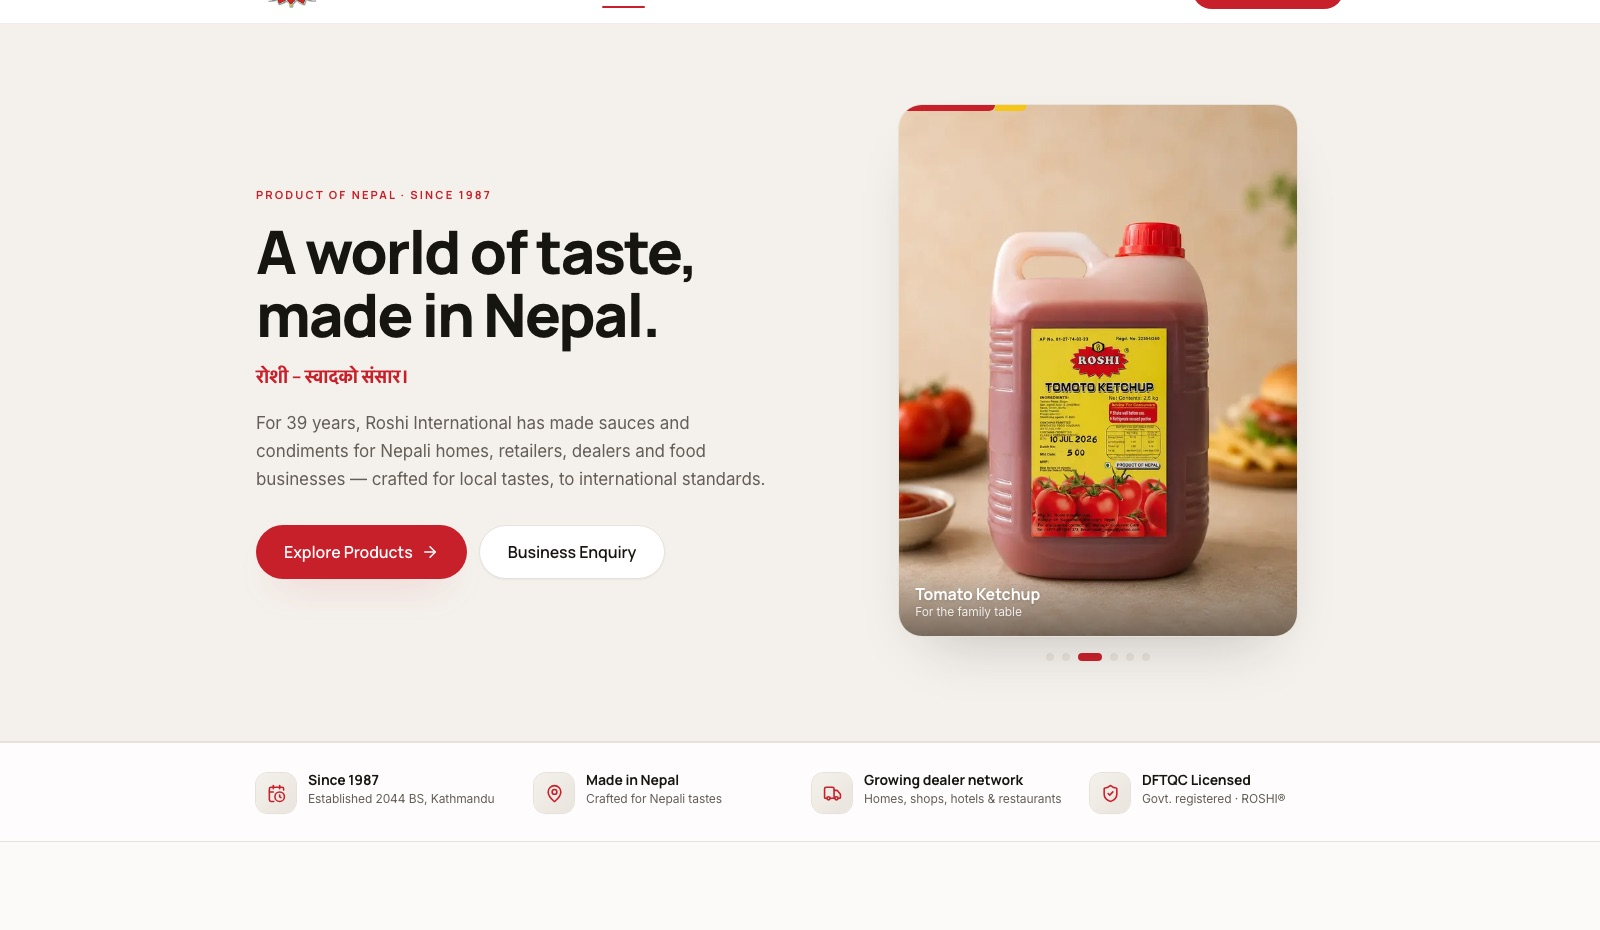
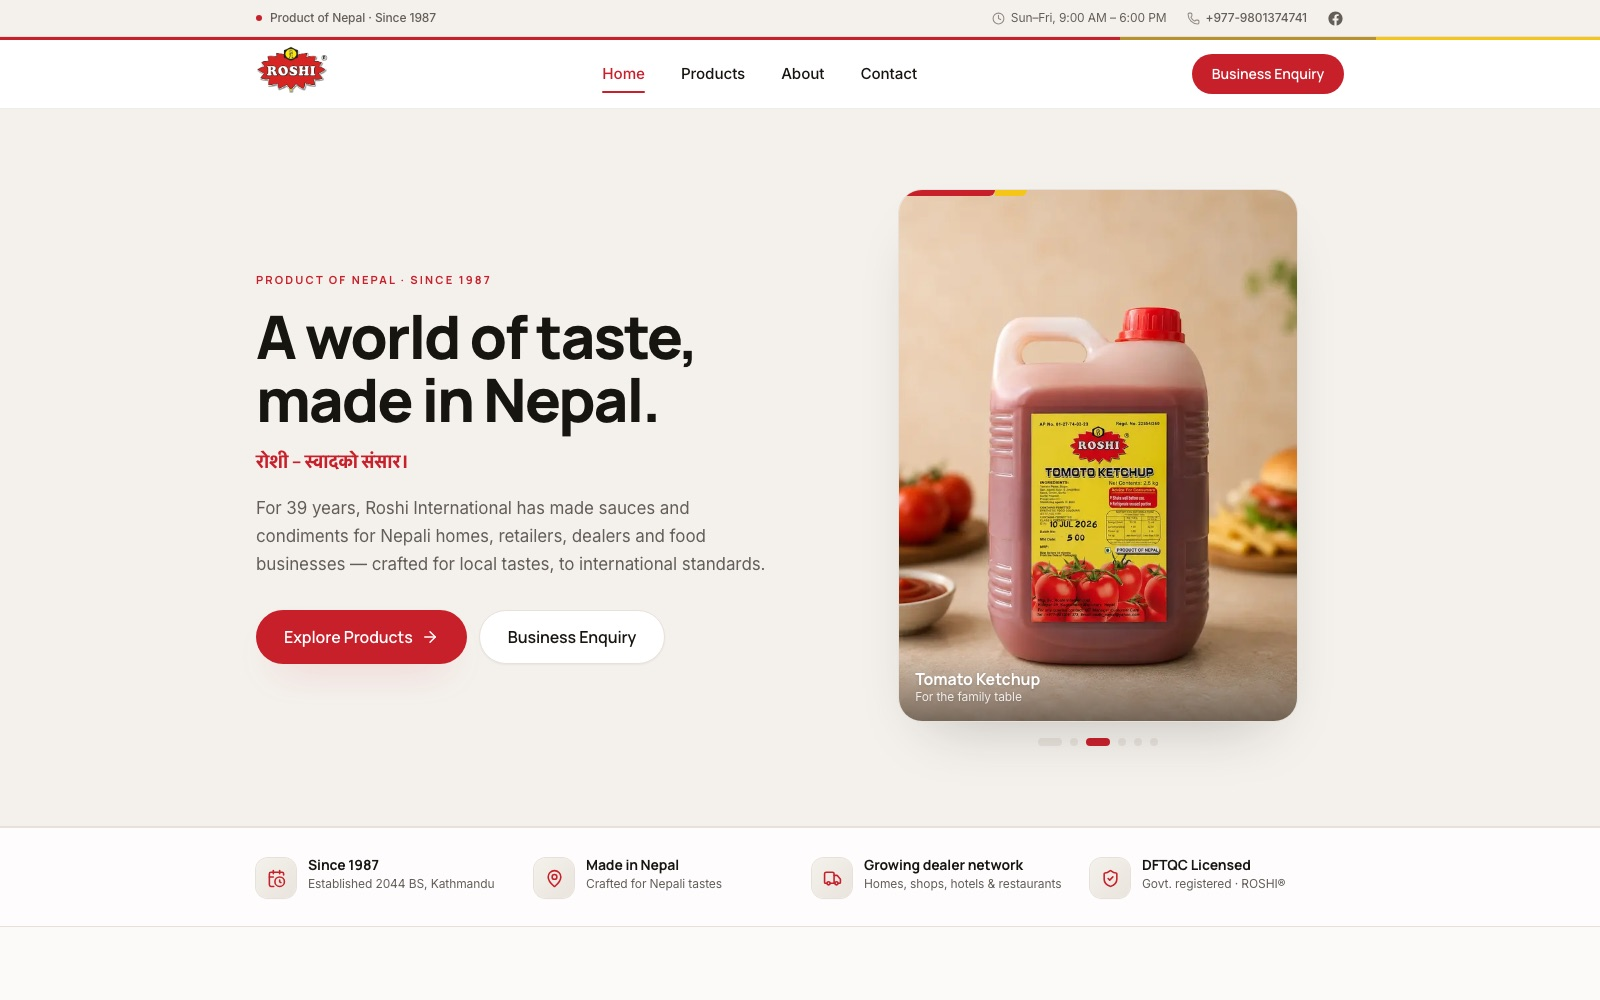
Update portfolio design

diff --git a/src/content/projects.ts b/src/content/projects.ts
@@ -175,8 +175,123 @@ export const projects: Project[] = [
 
   /* ---------------------------------------------------------------- 02 */
   {
-    slug: "avernek-os",
+    slug: "roshi-international",
     index: "02",
+    title: "Thirty-nine years of sauce, put online",
+    premise:
+      "A manufacturer's first real website — product range, trade enquiries and the credentials a dealer checks before ordering.",
+    discipline: "Full-stack · Delivery",
+    year: "2026",
+    // Same shape as every Avernek website engagement: the client arrives for
+    // automation and marketing, the site is added, and the site is mine.
+    role: ["Sales", "Requirements", "Design", "AI-assisted build"],
+    stack: ["Next.js", "Claude Code", "Figma"],
+    status: "Delivered",
+    featured: true,
+    cover: {
+      src: "/projects/roshi-international.jpg",
+      alt: "The Roshi International homepage — the bilingual headline beside a photograph of a 2.5kg tomato ketchup container, over a strip of trade credentials",
+      // 16:10, the same as every other site plate. Frames are shown at their
+      // own ratio rather than cropped to a box, so two screenshots of
+      // different proportions in one row end at different heights and the
+      // grid looks misaligned. The ratio is settled at capture time instead.
+      width: 1600,
+      height: 1000,
+      kind: "site",
+      label: "roshiinternational.com",
+    },
+    external: { label: "Preview build", href: "https://demo.avernek.com/" },
+    summary:
+      "Roshi International has manufactured sauces and condiments in Kathmandu since 1987 — soya sauce, chilli, ketchup, mayonnaise, vinegar — sold through homes, retailers, dealers and food service. The site is finished and running on a preview domain; roshiinternational.com is bought and waiting on the hosting cutover.",
+    chapters: [
+      {
+        kind: "prose",
+        heading: "Two audiences, one page",
+        body: [
+          "A person buying a 320gm bottle for their kitchen and a dealer pricing a 5kg carton want completely different things, and a manufacturer's site usually gets built for whichever one the owner thought of first.",
+          "So the product range leads with the sizes — 370gm through 5kg on the same card — because the size list is the fastest way for a trade buyer to work out whether this supplier is relevant to them, and it costs a home cook nothing to read past it.",
+        ],
+      },
+      {
+        kind: "prose",
+        heading: "The credentials are the product",
+        body: [
+          "Thirty-nine years, established 2044 BS, DFTQC licensed, government registered, a growing dealer network. For a food manufacturer selling into shops and restaurants, those four facts do more work than any amount of copy about quality.",
+          "They sit in a strip directly under the fold rather than on an About page, because a dealer deciding whether to make contact checks them first and leaves if they cannot find them.",
+        ],
+      },
+    ],
+  },
+
+  /* ---------------------------------------------------------------- 03 */
+  {
+    slug: "nepal-comfort",
+    index: "03",
+    title: "A 1999 tour company, rebuilt",
+    premise: "A full-stack rebuild for a Kathmandu vehicle rental and tour operator — client, API, database and deployment.",
+    discipline: "Full-stack · Delivery",
+    year: "2026",
+    // An Avernek engagement, not freelance. The client came for automation
+    // and marketing and asked for the site as well; the site is the part I
+    // take myself, end to end.
+    role: ["Sales", "Requirements", "Design", "AI-assisted build"],
+    stack: ["Figma", "Claude Code", "React", "Node"],
+    status: "Delivered",
+    featured: true,
+    cover: {
+      src: "/projects/nepal-comfort.jpg",
+      alt: "The Nepal Comfort Tour Service homepage — a full-bleed photograph of the company's own fleet behind the headline, with the since-1999 and NTVA-registered credentials called out",
+      // The file is 1600x1000. This said 1100, so the browser reserved a box
+      // 100px taller than the image that arrived — the plate settled short
+      // once it loaded, and sat lower than its neighbour in the row.
+      width: 1600,
+      height: 1000,
+      kind: "site",
+      // The client is Nepal Comfort Tour Service (P) Ltd.; the domain is
+      // nepaltourservice.com. The chrome label said nepalcomfort.com, which
+      // is not a site that exists.
+      label: "nepaltourservice.com",
+    },
+    summary:
+      "Nepal Comfort Tour Service has run vehicle rental and tour transportation out of Kathmandu since 1999. The rebuild is a complete MERN application — not a template with their logo on it. It came to Avernek as an automation and marketing engagement; the website was added to it, and the build is mine.",
+    // The rebuild is finished but not yet cut over — nepaltourservice.com
+    // still serves the old site until hosting moves. Deliberately not linked
+    // as `external`, because a link labelled with this case study that opens
+    // the site it replaced is worse than no link.
+    chapters: [
+      {
+        kind: "prose",
+        heading: "Why not a brochure site",
+        body: [
+          "Nepal Comfort Tour Service has run vehicle rental and tour transport out of Kathmandu since 1999. Their fleet, routes and pricing change constantly, and every change was going through whoever could edit the site that week.",
+          "So the fleet, routes and rates are database-backed and editable by them, not hardcoded into pages. The site itself leads with their own photographs — twenty-six years of vehicles and drivers is the credential, and stock imagery would have thrown that away.",
+        ],
+      },
+      {
+        kind: "spec",
+        heading: "Under it",
+        rows: [
+          { label: "Client", value: "React 18, Vite, Tailwind, Motion" },
+          { label: "Server", value: "Node, Express, MongoDB with Mongoose, JWT auth" },
+          { label: "Local", value: "Docker Compose — mongo, server, client; in-memory Mongo fallback for machines without either" },
+          { label: "Data", value: "Seed and fresh-seed scripts, so the database is reproducible" },
+        ],
+      },
+      {
+        kind: "prose",
+        heading: "Handover",
+        body: [
+          "The whole thing comes up with one command, and the setup notes cover the things that actually trip people up locally. It is a small amount of writing that saves the next person an hour.",
+          "A project is not delivered until someone else can run it.",
+        ],
+      },
+    ],
+  },
+
+  /* ---------------------------------------------------------------- 04 */
+  {
+    slug: "avernek-os",
+    index: "04",
     title: "A commitment ledger, not a to-do app",
     premise: "An internal product with opinions strong enough to make it deliberately worse at some things.",
     discipline: "Product design · Systems",
@@ -245,10 +360,10 @@ export const projects: Project[] = [
     ],
   },
 
-  /* ---------------------------------------------------------------- 03 */
+  /* ---------------------------------------------------------------- 05 */
   {
     slug: "inquiry-systems",
-    index: "03",
+    index: "05",
     title: "Answering every enquiry in under a minute",
     premise: "The architecture behind a system that reads intent, qualifies a buyer, and knows when to hand over to a human.",
     discipline: "AI automation · Systems design",
@@ -314,115 +429,7 @@ export const projects: Project[] = [
     ],
   },
 
-  /* ---------------------------------------------------------------- 04 */
-  {
-    slug: "roshi-international",
-    index: "04",
-    title: "Thirty-nine years of sauce, put online",
-    premise:
-      "A manufacturer's first real website — product range, trade enquiries and the credentials a dealer checks before ordering.",
-    discipline: "Full-stack · Delivery",
-    year: "2026",
-    // Same shape as every Avernek website engagement: the client arrives for
-    // automation and marketing, the site is added, and the site is mine.
-    role: ["Sales", "Requirements", "Design", "AI-assisted build"],
-    stack: ["Next.js", "Claude Code", "Figma"],
-    status: "Delivered",
-    featured: true,
-    cover: {
-      src: "/projects/roshi-international.jpg",
-      alt: "The Roshi International homepage — the bilingual headline beside a photograph of a 2.5kg tomato ketchup container, over a strip of trade credentials",
-      width: 1600,
-      height: 930,
-      kind: "site",
-      label: "roshiinternational.com",
-    },
-    external: { label: "Preview build", href: "https://demo.avernek.com/" },
-    summary:
-      "Roshi International has manufactured sauces and condiments in Kathmandu since 1987 — soya sauce, chilli, ketchup, mayonnaise, vinegar — sold through homes, retailers, dealers and food service. The site is finished and running on a preview domain; roshiinternational.com is bought and waiting on the hosting cutover.",
-    chapters: [
-      {
-        kind: "prose",
-        heading: "Two audiences, one page",
-        body: [
-          "A person buying a 320gm bottle for their kitchen and a dealer pricing a 5kg carton want completely different things, and a manufacturer's site usually gets built for whichever one the owner thought of first.",
-          "So the product range leads with the sizes — 370gm through 5kg on the same card — because the size list is the fastest way for a trade buyer to work out whether this supplier is relevant to them, and it costs a home cook nothing to read past it.",
-        ],
-      },
-      {
-        kind: "prose",
-        heading: "The credentials are the product",
-        body: [
-          "Thirty-nine years, established 2044 BS, DFTQC licensed, government registered, a growing dealer network. For a food manufacturer selling into shops and restaurants, those four facts do more work than any amount of copy about quality.",
-          "They sit in a strip directly under the fold rather than on an About page, because a dealer deciding whether to make contact checks them first and leaves if they cannot find them.",
-        ],
-      },
-    ],
-  },
-
-  /* ---------------------------------------------------------------- 04 */
-  {
-    slug: "nepal-comfort",
-    index: "05",
-    title: "A 1999 tour company, rebuilt",
-    premise: "A full-stack rebuild for a Kathmandu vehicle rental and tour operator — client, API, database and deployment.",
-    discipline: "Full-stack · Delivery",
-    year: "2026",
-    // An Avernek engagement, not freelance. The client came for automation
-    // and marketing and asked for the site as well; the site is the part I
-    // take myself, end to end.
-    role: ["Sales", "Requirements", "Design", "AI-assisted build"],
-    stack: ["Figma", "Claude Code", "React", "Node"],
-    status: "Delivered",
-    featured: true,
-    cover: {
-      src: "/projects/nepal-comfort.jpg",
-      alt: "The Nepal Comfort Tour Service homepage — a full-bleed photograph of the company's own fleet behind the headline, with the since-1999 and NTVA-registered credentials called out",
-      width: 1600,
-      height: 1100,
-      kind: "site",
-      // The client is Nepal Comfort Tour Service (P) Ltd.; the domain is
-      // nepaltourservice.com. The chrome label said nepalcomfort.com, which
-      // is not a site that exists.
-      label: "nepaltourservice.com",
-    },
-    summary:
-      "Nepal Comfort Tour Service has run vehicle rental and tour transportation out of Kathmandu since 1999. The rebuild is a complete MERN application — not a template with their logo on it. It came to Avernek as an automation and marketing engagement; the website was added to it, and the build is mine.",
-    // The rebuild is finished but not yet cut over — nepaltourservice.com
-    // still serves the old site until hosting moves. Deliberately not linked
-    // as `external`, because a link labelled with this case study that opens
-    // the site it replaced is worse than no link.
-    chapters: [
-      {
-        kind: "prose",
-        heading: "Why not a brochure site",
-        body: [
-          "Nepal Comfort Tour Service has run vehicle rental and tour transport out of Kathmandu since 1999. Their fleet, routes and pricing change constantly, and every change was going through whoever could edit the site that week.",
-          "So the fleet, routes and rates are database-backed and editable by them, not hardcoded into pages. The site itself leads with their own photographs — twenty-six years of vehicles and drivers is the credential, and stock imagery would have thrown that away.",
-        ],
-      },
-      {
-        kind: "spec",
-        heading: "Under it",
-        rows: [
-          { label: "Client", value: "React 18, Vite, Tailwind, Motion" },
-          { label: "Server", value: "Node, Express, MongoDB with Mongoose, JWT auth" },
-          { label: "Local", value: "Docker Compose — mongo, server, client; in-memory Mongo fallback for machines without either" },
-          { label: "Data", value: "Seed and fresh-seed scripts, so the database is reproducible" },
-        ],
-      },
-      {
-        kind: "prose",
-        heading: "Handover",
-        body: [
-          "The whole thing comes up with one command, and the setup notes cover the things that actually trip people up locally. It is a small amount of writing that saves the next person an hour.",
-          "A project is not delivered until someone else can run it.",
-        ],
-      },
-    ],
-  },
-
-  /* ---------------------------------------------------------------- 05 */
+  /* ---------------------------------------------------------------- 06 */
   {
     slug: "hck-core",
     index: "06",
@@ -473,7 +480,7 @@ export const projects: Project[] = [
     ],
   },
 
-  /* ---------------------------------------------------------------- 06 */
+  /* ---------------------------------------------------------------- 07 */
   {
     slug: "mountain-routes",
     index: "07",

diff --git a/src/routes/Work.tsx b/src/routes/Work.tsx
@@ -7,7 +7,7 @@ export default function WorkPage() {
   useSeo({
     title: "Work",
     description:
-      "Seven projects — a company, an internal product, an AI automation architecture, two client website builds, a UI/UX platform, and a content system.",
+      "Seven projects — a company, two client website builds, an internal product, an AI automation architecture, a UI/UX platform, and a content system.",
     canonical: "/work",
   });
 
@@ -20,10 +20,10 @@ export default function WorkPage() {
             Seven projects, in the order they explain each other.
           </h1>
           <p className="mt-6 max-w-measure text-lead text-graphite">
-            Plates 01 and 02 are the company and the product it runs on. 03 is the system we
-            sell. 04 and 05 are client websites — the part of an Avernek engagement I build
-            myself. 06 and 07 are what came before: interface design, and the growth work that
-            taught me what customers actually complain about.
+            01 is the company. 02 and 03 are client websites — the part of an Avernek
+            engagement I take myself, end to end. 04 and 05 are what the company runs on
+            internally and what it sells. 06 and 07 are what came before: interface design, and
+            the growth work that taught me what customers actually complain about.
           </p>
         </Container>
       </section>
